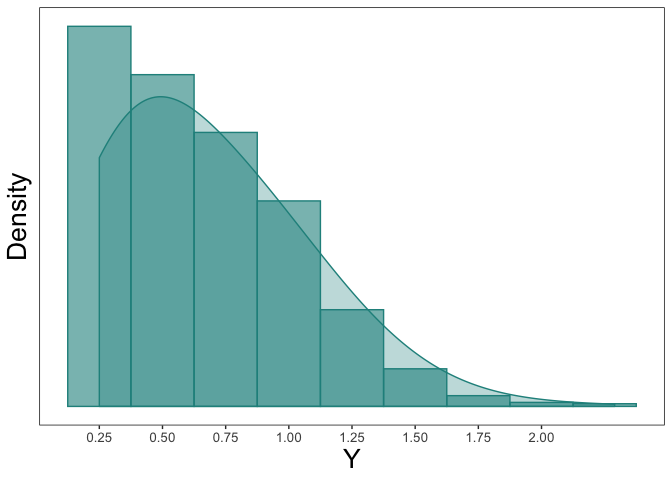
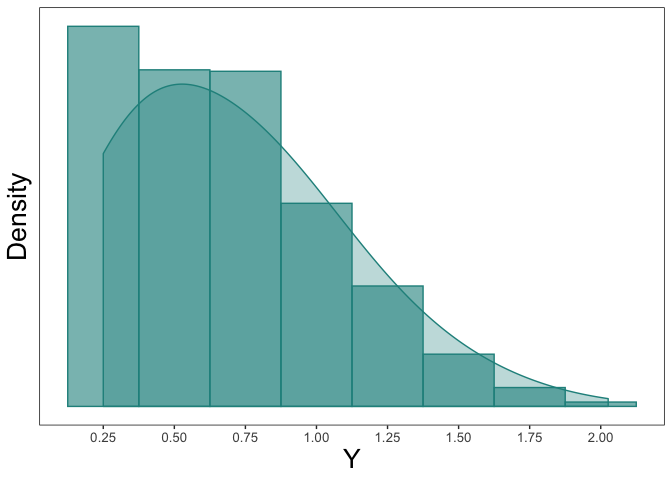
updating README title and spacing

diff --git a/README.md b/README.md
@@ -1,5 +1,4 @@
-tcensReg: Maximum Likelihood Estimation of a Truncated Normal
-Distribution with Censored Data
+Maximum Likelihood Estimation of a Truncated Normal Distribution with Censored Data
 ================
 
 The goal of this package is to estimate parameters from a linear model
@@ -19,7 +18,8 @@ with:
 install.packages("devtools")
 devtools::install_github("williazo/tcensReg")
 #to install the package with the accompaining vignette use the command below
-devtools::install_github("williazo/tcensReg", build_opts=c("--no-resave-data", "--no-manual"),
+devtools::install_github("williazo/tcensReg",
+                         build_opts=c("--no-resave-data", "--no-manual"),
                          build_vignettes=TRUE)
 ```
 
@@ -35,20 +35,20 @@ simulation example.
 Assume that we have observations from an underlying truncated normal
 distribution. In our case we will assume a zero-truncated model by
 setting a=0. We generate this truncated normal data below and refer to
-it as
-`y_star`.
+it as `y_star`.
 
 ``` r
-library(msm) #we will use this package to generate random values from the truncated normal distribution
+library(msm)
 mu <- 0.5
 sigma <- 0.5
 a <- 0
-
+#generate random values from the truncated normal distribution
 y_star <- msm::rtnorm(n=1000, mean=mu, sd=sigma, lower=a)
-range(y_star) #note that the lowerbound will always be non-negative
+#note that the lowerbound will always be non-negative
+round(range(y_star), 3)
 ```
 
-    ## [1] 0.0009733928 2.2896172343
+    ## [1] 0.001 2.026
 
 Next, we can imagine a scenario where we have an imprecise measurement
 of `y_star` leading to censoring. In our case we assume that values
@@ -60,13 +60,15 @@ In the example below we set our limit of detection as `nu`=0.25.
 ``` r
 nu <- 0.25
 y <- ifelse(y_star <= nu, nu, y_star)
-sum(y == nu)/length(y) #calculating the number of censored observations
+#calculating the number of censored observations
+sum(y == nu)/length(y)
 ```
 
-    ## [1] 0.175
+    ## [1] 0.171
 
 ``` r
-dt <- data.frame(y_star, y) #collecting the uncensored and censored data together
+#collecting the uncensored and censored data together
+dt <- data.frame(y_star, y)
 ```
 
 We can observe the histogram and density plot for the uncensored data,
@@ -80,28 +82,29 @@ We can then estimate the mean, `mu`, and standard deviation, `sigma`,
 using `y` with the `tcensReg` package as shown below.
 
 ``` r
-library(tcensReg)  #loading the package into the current environment
+#loading the package
+library(tcensReg)  
 tcensReg(y ~ 1, data=dt, a=0, v=0.25)
 ```
 
     ## $theta
     ##               Estimate
-    ## (Intercept)  0.5043155
-    ## log_sigma   -0.7153226
-    ## 
+    ## (Intercept)  0.5435955
+    ## log_sigma   -0.7216200
+    ##
     ## $iterations
     ## [1] 5
-    ## 
+    ##
     ## $initial_ll
-    ## [1] -654.8255
-    ## 
+    ## [1] -668.4731
+    ##
     ## $final_ll
-    ## [1] -641.0004
-    ## 
+    ## [1] -657.1288
+    ##
     ## $var_cov
     ##               (Intercept)     log_sigma
-    ## (Intercept)  0.0007679602 -0.0007770539
-    ## log_sigma   -0.0007770539  0.0015425278
+    ## (Intercept)  0.0006611558 -0.0006590367
+    ## log_sigma   -0.0006590367  0.0014293139
 
 Note that the this will return parameter estimates, variance-covariance
 matrix, the number of iterations until convergence, and the
@@ -111,23 +114,31 @@ Comparing the values to the truth we see that the estimates are
 unbiased.
 
 ``` r
+#tcensReg model
 output <- tcensReg(y ~ 1, data=dt, a=a, v=nu)
-lm_output <- lm(y ~ 1, data=dt) #running OLS model for comparison
-cens_output <- tcensReg(y ~ 1, data=dt, v=nu) #censored only model, i.e., Tobit model
+#extracting the point estimates
+tcensReg_est <- output$theta
+#exponentiating the estimate of log_sigma to obtain sigma
+tcensReg_est[2] <- exp(tcensReg_est[2])
+
+#OLS model
+lm_output <- lm(y ~ 1, data=dt)
+lm_est <- c(coef(lm_output), summary(lm_output)$sigma)
+#censored only model, i.e., Tobit model
+cens_output <- tcensReg(y ~ 1, data=dt, v=nu)
 ```
 
     ## Warning: `a` is not specified indicating no truncation
 
 ``` r
-tcensReg_est <- output$theta #extracting the point estimates
-tcensReg_est[2] <- exp(tcensReg_est[2]) #exponentiating the estimate of log_sigma to estimate sigma
-
-lm_est <- c(coef(lm_output), summary(lm_output)$sigma)
-
 cens_est <- cens_output$theta
 cens_est[2] <- exp(cens_est[2])
 
-results_df <- data.frame(rbind(c(mu, sigma), t(tcensReg_est), lm_est, t(cens_est)))
+
+results_df <- data.frame(rbind(c(mu, sigma),
+                               t(tcensReg_est),
+                               lm_est,
+                               t(cens_est)))
 names(results_df) <- c("mu", "sigma")
 row.names(results_df) <- c("Truth", "tcensReg", "Normal MLE", "Tobit")
 results_df$mu_bias <- abs(results_df$mu - mu)
@@ -139,9 +150,9 @@ knitr::kable(results_df, format="markdown", digits=4)
 |            |     mu |  sigma | mu\_bias | sigma\_bias |
 | :--------- | -----: | -----: | -------: | ----------: |
 | Truth      | 0.5000 | 0.5000 |   0.0000 |      0.0000 |
-| tcensReg   | 0.5043 | 0.4890 |   0.0043 |      0.0110 |
-| Normal MLE | 0.6598 | 0.3651 |   0.1598 |      0.1349 |
-| Tobit      | 0.6185 | 0.4265 |   0.1185 |      0.0735 |
+| tcensReg   | 0.5436 | 0.4860 |   0.0436 |      0.0140 |
+| Normal MLE | 0.6828 | 0.3704 |   0.1828 |      0.1296 |
+| Tobit      | 0.6427 | 0.4316 |   0.1427 |      0.0684 |
 
 Other methods result in significant bias for both `mu` and `sigma`.
 
@@ -160,10 +171,10 @@ cens <- microbenchmark(tcensReg_method = tcensReg(y ~ 1, data=dt, v=nu),
 knitr::kable(summary(cens), format="markdown", digits=4)
 ```
 
-| expr             |     min |      lq |    mean |  median |      uq |     max | neval |
-| :--------------- | ------: | ------: | ------: | ------: | ------: | ------: | ----: |
-| tcensReg\_method |  4.8422 |  5.2257 |  6.6547 |  5.4520 |  7.0055 | 20.1921 |   100 |
-| censReg\_method  | 13.6909 | 15.2316 | 20.5286 | 18.9823 | 23.0765 | 71.8413 |   100 |
+| expr             |     min |      lq |    mean |  median |      uq |      max | neval |
+| :--------------- | ------: | ------: | ------: | ------: | ------: | -------: | ----: |
+| tcensReg\_method |  4.7981 |  5.6043 |  7.5102 |  6.4579 |  8.0752 |  28.8798 |   100 |
+| censReg\_method  | 15.0433 | 17.9193 | 27.5966 | 22.8280 | 28.0810 | 187.2731 |   100 |
 
 ``` r
 #point estimates are equivalent
@@ -184,8 +195,8 @@ knitr::kable(summary(trunc), format="markdown", digits=4)
 
 | expr             |     min |      lq |    mean |  median |      uq |      max | neval |
 | :--------------- | ------: | ------: | ------: | ------: | ------: | -------: | ----: |
-| tcensReg\_method |  8.4497 |  8.8147 | 11.6112 |  9.1379 | 11.2483 | 145.8887 |   100 |
-| truncreg\_method | 26.8167 | 28.4347 | 32.8650 | 33.1872 | 34.8275 |  43.0218 |   100 |
+| tcensReg\_method |  8.5226 |  9.7616 | 11.9713 | 10.8375 | 13.4695 |  36.5793 |   100 |
+| truncreg\_method | 27.3353 | 30.5580 | 38.8867 | 34.0826 | 40.0806 | 175.2784 |   100 |
 
 ``` r
 tcensReg_est <- as.numeric(tcensReg(y_star ~ 1, data=dt, a=a)$theta)
@@ -195,4 +206,4 @@ truncreg_est <- as.numeric(coef(truncreg(y_star ~ 1, point=a, data=dt)))
 all.equal(tcensReg_est, truncreg_est)
 ```
 
-    ## [1] TRUE
+    ## [1] "Mean relative difference: 2.851958e-08"
